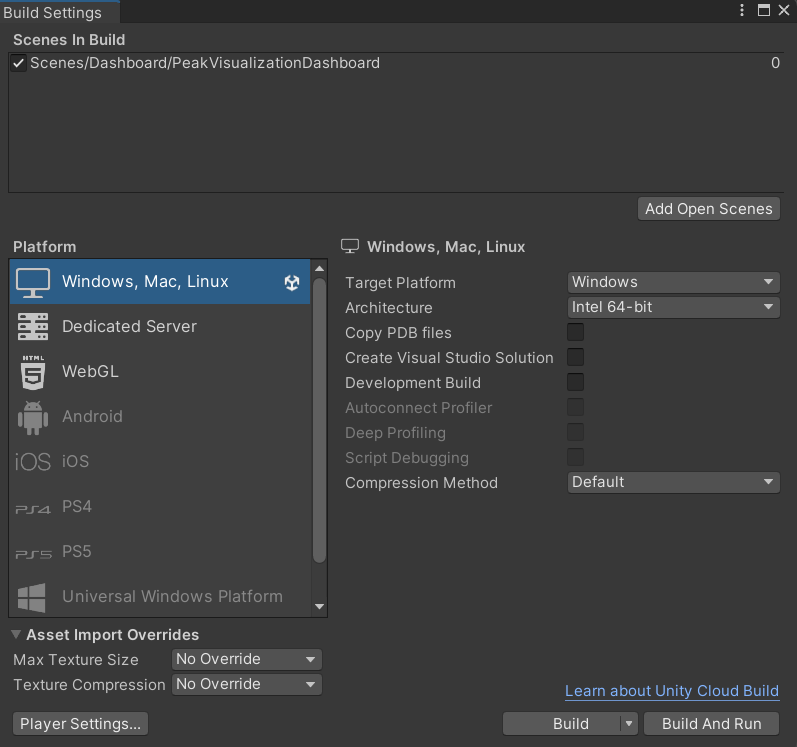
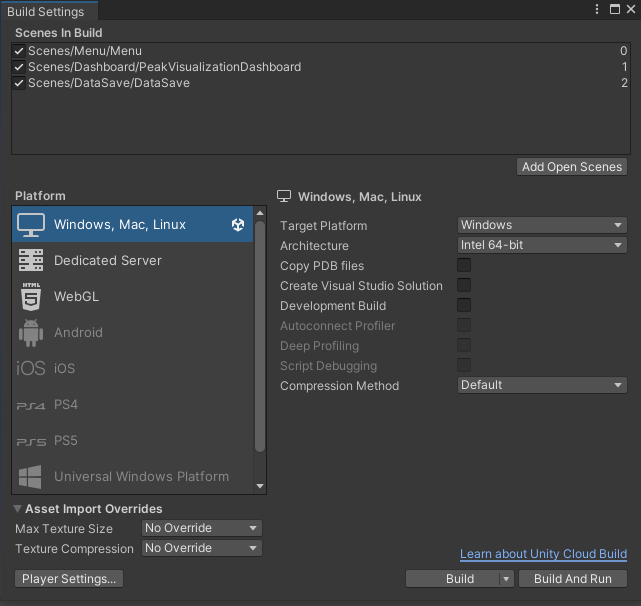
Update Deployment.md, Development.md, User.md, add images

diff --git a/Documentation/User.md b/Documentation/User.md
@@ -20,7 +20,7 @@ The primary use for this application is to display the data being collected from
 - The top window will display the pupil dialation of each eye in millimeters and through a dot in that will change it's size depending on the user's dialation.
 - The bottom panel will display the combined gaze (roughly where a user is looking) in the form of a three-dimensional coordinate.
 
-<img src="./images/Iteration2Pupil.png" alt="Eye tracking and pupilometry panels" width="200" >
+<img src="./images/Iteration3Pupil.png" alt="Eye tracking and pupilometry panels" width=250px>
 
 ### Heart Rate
 
@@ -29,7 +29,7 @@ The primary use for this application is to display the data being collected from
 - If the user's heart rate is less than 75 the heart will pulse slow with a light blue color. If between 76 and 135, the heart will pulse a bit faster with a yellow color. If between 136 and 175, the heart will beat faster and with a light red color. Finally, if the user's heart rate is above 176, the heart will pulse faster than before and with a dark red color.
 
 
-<img src="./images/Iteration2Hr.png" alt="Heart Rate Panel" width="200">
+<img src="./images/Iteration3Hr.png" alt="Heart Rate Panel" width=250px>
 
 ### Cognitive load
 
@@ -38,14 +38,14 @@ The primary use for this application is to display the data being collected from
 - If the user's cognitive load is less than 0.40, the bar would fill to the load with a light blue color. If the load is between 0.41 and 0.66, the bar would fill to the load with a yellow color. If the user's load is between 0.67 and 0.75 the bar would fill with a light red color. Finally, if the user's cognitive load is greater than 0.76, the bar would fill to the load point with a dark red color.
 - Cognitive load is a scientific tearm for a measurement of mental effort required to perform a task. Here is a [link](https://www.youtube.com/watch?v=2Sk2_4U58yg) to a video from HP explaining cognitive load in more detail.
 
-<img src="./images/Iteration2CognitiveLoad.png" alt="Cognitive load panel" width="200">
+<img src="./images/Iteration3CognitiveLoad.png" alt="Cognitive load panel" width=250px>
 
 ### Saving Data
 
 - On the bottom right of the window there is a textbox and button labeled **UserID** and **Save Data**. When The user enters their 6 digit UserId the **Save Data** button will then become interactable.
 - When you press the button the user's data will then be uploaded to an AWS S3 bucket that stores the data by UserID and by timestamp of when uploaded.
 
-<img src="./images/Iteration2SaveDataButton.png" alt="Save Data" width="250">
+<img src="./images/Iteration3SaveData.png" alt="Save Data" width=275px>
 
 
 # Web application

diff --git a/Documentation/Deployment.md b/Documentation/Deployment.md
@@ -1,7 +1,7 @@
 # Unity Application
 
 1. From the Unity editor with the project open. Click **File** in the top left of the editor window then select **Build Settings...**
-2. In the build setting window ensure that the the **PeakVisualizationDashboard** is the only scene selected in the `Scenes in build` table.
+2. In the build setting window ensure that the `Scenes in build` table order is **Menu**, followed by **PeakVisualizationDashboard**, and finally **DataSave**.
 
 ![Unity Build Settings](./images/UnityBuildSettings.png)
 
